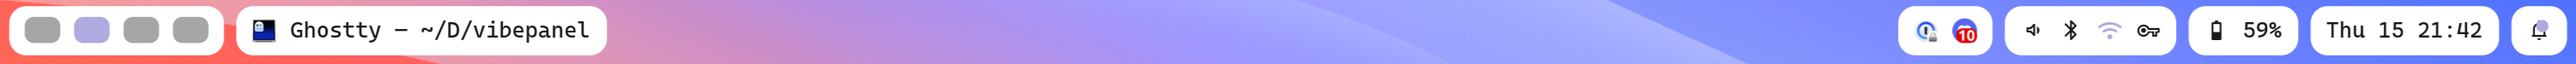
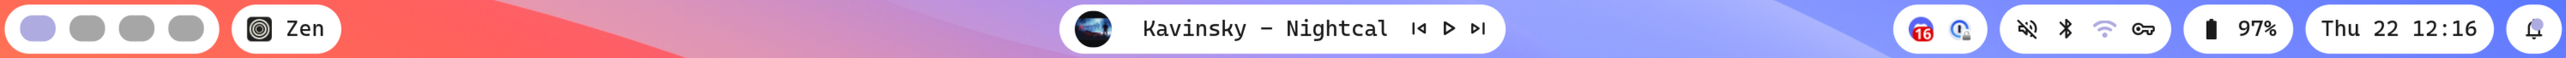
docs(readme): add information about media player

diff --git a/README.md b/README.md
@@ -16,7 +16,7 @@ VibePanel is something between a simple status bar and a full desktop shell:
   - **OSD** – Built-in on-screen display for volume and brightness
   - **Quick settings** – Native panel for Wi‑Fi, Bluetooth, audio, power profiles and more
 - **Modern aesthetics** – Defaults to a floating “island” style with instant hot‑reloading for layouts and themes.
-- **Integrated CLI** – Small CLI for controlling volume, brightness and idle inhibition.
+- **Integrated CLI** – Small CLI for controlling volume, brightness, media controls and idle inhibition.
 - **Center anchoring** – Custom GTK4 layout keeps center widgets centered even when left/right sections grow.
 
 ## Screenshots
@@ -47,6 +47,7 @@ These examples use roughly ~10–35 lines of TOML to get completely different vi
 - Notifications - notification center with Do Not Disturb
 - Updates - package update indicator (dnf and pacman/paru support right now)
 - CPU & Memory - system resource monitors
+- Media - MPRIS media player controls with album art
 
 ## Status
 
@@ -112,6 +113,7 @@ size = 32
 
 [widgets]
 left = ["workspaces", "window_title"]
+center = ["media"]
 right = ["quick_settings", "battery", "clock", "notifications"]
 
 [theme]
